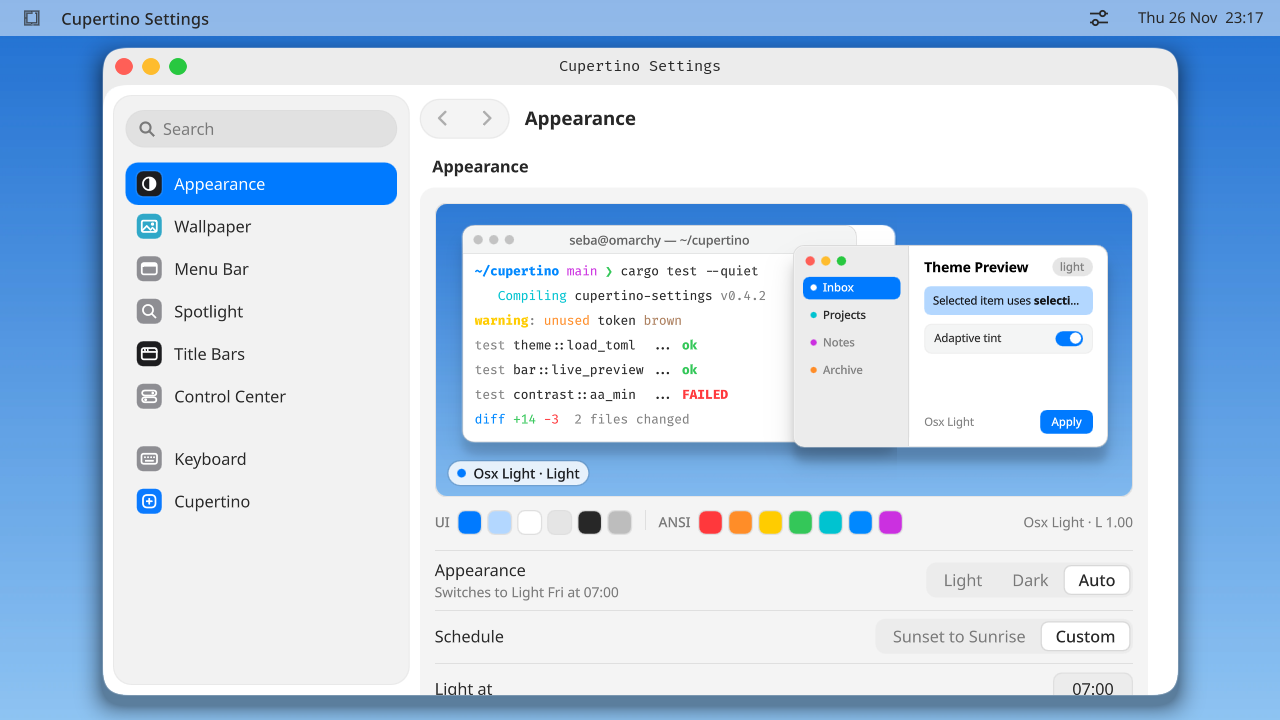
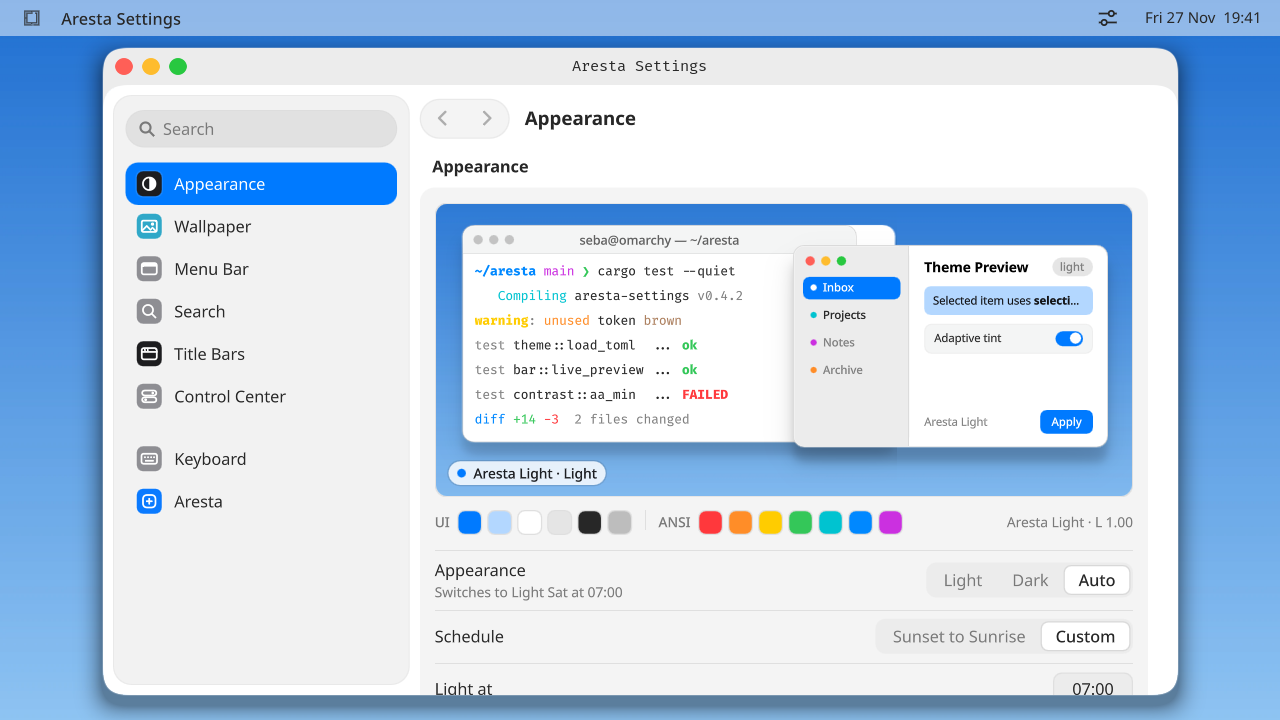
docs(readme): present the project as aresta
The README opens with the lockup and the tagline, names each part by its
new name and gives the new repository URL. It says once that Aresta is
inspired by macOS, and ends with the Urbanist credit and the trademark
notice.

The lockups get a tight viewBox, so the title has no empty margin. The
media is regenerated with the new names, and spotlight.gif becomes
search.gif.

diff --git a/README.md b/README.md
@@ -1,26 +1,34 @@
-# omarchy-cupertino
+<h1 align="center">
+  <picture>
+    <source media="(prefers-color-scheme: dark)" srcset="assets/brand/lockup-dark.svg">
+    <source media="(prefers-color-scheme: light)" srcset="assets/brand/lockup-light.svg">
+    <img alt="Aresta" src="assets/brand/lockup-light.svg" width="360">
+  </picture>
+</h1>
 
-A macOS look for [Omarchy](https://omarchy.org) 4.5 or newer.
+<p align="center">A crafted desktop, with rounded edges.</p>
+
+Aresta is a desktop look for [Omarchy](https://omarchy.org) 4.5 or newer,
+inspired by macOS.
 
 | Part | What you get |
 | --- | --- |
-| [Menu bar](#menu-bar) | A Mac-style top bar in place of the Omarchy bar |
+| [Menu bar](#menu-bar) | A slim top bar in place of the Omarchy bar |
 | [Control Center](#control-center) | Floating controls for Wi-Fi, Bluetooth, Focus, theme, Night Light, display, sound and media |
-| [Spotlight](#spotlight) | The Omarchy menu drawn as macOS Spotlight |
+| [Search](#search) | The Omarchy menu as one search field |
 | [Title bars](#title-bars-and-windows) | Traffic lights on floating workspaces, rounded corners everywhere |
-| [Themes](#themes) | Works with every Omarchy theme, plus OSX Light and OSX Dark |
-| [Shortcuts](#keyboard-shortcuts) | Super+Tab, Super+Q and other macOS keys on Super |
-| [Cupertino Settings](#cupertino-settings) | One app that turns each part on or off |
+| [Themes](#themes) | Works with every Omarchy theme, plus Aresta Light and Aresta Dark |
+| [Shortcuts](#keyboard-shortcuts) | Super+Tab, Super+Q and other app keys on Super |
+| [Aresta Settings](#aresta-settings) | One app that turns each part on or off |
 
 Each part has a switch. Turning one off gives back Omarchy's own behavior.
 See [Install](#install) to get started.
 
 ## Menu bar
 
-![Turning on the Cupertino menu bar in Cupertino Settings to replace the default Omarchy bar](docs/media/menu-bar.gif)
+![Turning on the Aresta menu bar in Aresta Settings to replace the default Omarchy bar](docs/media/menu-bar.gif)
 
-The menu bar replaces the Omarchy bar. It is sized and spaced like the macOS
-menu bar.
+The menu bar replaces the Omarchy bar.
 
 - **Left:** the Omarchy menu button and the focused app's name.
 - **Right:** your status widgets, third-party ones too, and the date and time.
@@ -33,8 +41,7 @@ menu bar.
 ![Opening the Control Center pills, then the Wi-Fi and the sound panels, in the top-right corner](docs/media/control-center.gif)
 
 The Control Center button sits next to the clock. It opens a group of
-floating pills in the top-right corner, in the style of macOS Tahoe. The
-pills:
+floating pills in the top-right corner. The pills:
 
 - turn Wi-Fi, Bluetooth and Focus on or off;
 - switch between the light and the dark theme, and turn the night light on
@@ -48,9 +55,9 @@ as the Wi-Fi or the sound panel, in the same corner.
 While it is on, the bar hides Omarchy's network, Bluetooth, sound, system
 monitor and battery icons, unless you keep one in the bar.
 
-## Spotlight
+## Search
 
-![Opening Spotlight, then searching for an app and doing math](docs/media/spotlight.gif)
+![Opening Aresta Search, then searching for an app and doing math](docs/media/search.gif)
 
 Super+Space, the bar's menu button and `omarchy-menu` open one search field
 with a blinking cursor. Results show apps first, then menu rows with their
@@ -88,17 +95,17 @@ title bars.
 
 ## Themes
 
-![OSX Light on the left and OSX Dark on the right](docs/media/themes.png)
+![Aresta Light on the left and Aresta Dark on the right](docs/media/themes.png)
 
 Every installed Omarchy theme is supported. The menu bar, Control Center,
-Spotlight, title bars, app switcher and Cupertino Settings follow your active
-theme's colors. In Cupertino Settings under Appearance, pick any installed
+Aresta Search, title bars, app switcher and Aresta Settings follow your active
+theme's colors. In Aresta Settings under Appearance, pick any installed
 Omarchy theme as your light theme or dark theme, and switch manually or on Auto
 (sunrise/sunset or a custom schedule).
 
-Two macOS-style themes are included: **OSX Light** and **OSX Dark**, each with
-Yaru blue icons and an original gradient background. Pick them in Cupertino
-Settings, the Omarchy theme menu or with `omarchy-theme-set "osx light"`.
+Two themes are included: **Aresta Light** and **Aresta Dark**, each with Yaru
+blue icons and an original gradient background. Pick them in Aresta Settings,
+the Omarchy theme menu or with `omarchy-theme-set "Aresta Light"`.
 
 ## Keyboard shortcuts
 
@@ -123,23 +130,23 @@ The switcher replaces Omarchy's next and previous workspace bindings on
 Super+Tab and Super+Shift+Tab. It is its own shell plugin, so it keeps
 working when you switch back to the Omarchy bar.
 
-## Cupertino Settings
+## Aresta Settings
 
-![The Appearance section of Cupertino Settings, with the theme preview and the Auto schedule](docs/media/settings.png)
+![The Appearance section of Aresta Settings, with the theme preview and the Auto schedule](docs/media/settings.png)
 
-Cupertino Settings is a small app in the style of macOS System Settings.
-Open it from the app launcher.
+Aresta Settings is a small app with one section for each part. Open it from
+the app launcher.
 
 | Section | What you set |
 | --- | --- |
-| Appearance | Light, Dark or Auto; the light and the dark theme from the installed Omarchy themes, in lists that follow the themes you add or remove while the window is open; window shadows; translucent panel backgrounds and opacity for Control Center, Spotlight and the app switcher; the Control Center and the status panels in the top-right corner. It also shows the colors of the current theme. Auto picks the light theme at sunrise and the dark theme at sunset, or at the two times you set under Schedule, Custom. |
+| Appearance | Light, Dark or Auto; the light and the dark theme from the installed Omarchy themes, in lists that follow the themes you add or remove while the window is open; window shadows; translucent panel backgrounds and opacity for Control Center, Aresta Search and the app switcher; the Control Center and the status panels in the top-right corner. It also shows the colors of the current theme. Auto picks the light theme at sunrise and the dark theme at sunset, or at the two times you set under Schedule, Custom. |
 | Wallpaper | The current wallpaper and a switch that keeps it when the theme changes. It lists the pictures of the theme, of `~/.config/omarchy/backgrounds/<theme>` and of folders you add. Add Photo copies a picture into `~/.config/omarchy/backgrounds/<theme>`. |
 | Menu Bar | The menu bar itself; desktops in the bar (after the menus, in the center or before the status icons, as numbers or dots); the bar background opacity; the clock format. |
-| Spotlight | Spotlight itself (off gives back the Omarchy menu); size from 80% to 150%; a gray or theme accent selected row; the filter buttons; open with only the search field until you type; keyboard hints at the bottom of the card; lock the card's place and size; put it back at its default place and height. |
+| Search | Aresta Search itself (off gives back the Omarchy menu); size from 80% to 150%; a gray or theme accent selected row; the filter buttons; open with only the search field until you type; keyboard hints at the bottom of the card; lock the card's place and size; put it back at its default place and height. |
 | Title Bars | The title bars themselves, with a preview of two windows on your wallpaper; title bars on tiled windows too; button position (left or right); grey traffic lights on unfocused windows; icons in the traffic lights on hover; title alignment; traffic light size. Off gives back Omarchy's own title bars. |
 | Control Center | The Control Center itself (off gives back Omarchy's bar icons); the controls the panel shows; the Omarchy icons that also stay in the menu bar. |
 | Keyboard | Quit app, Cycle windows, the app switcher and the Quake console keys on or off, and new shortcuts for them. Omarchy's own bindings show as read-only. |
-| Cupertino | Options that macOS does not have: rounded corners and their radius and shape, the thin border, the shadow and the bar size. |
+| Aresta | Rounded corners and their radius and shape, the thin border, the shadow and the bar size. |
 
 Turning a part off gives back Omarchy's own behavior: the Omarchy bar, its
 status icons, title bars, square corners, colored border, menu, or its
@@ -147,8 +154,7 @@ Super+Q, `` Super+` ``, `` Super+Shift+` ``, Super+Tab and Super+Shift+Tab
 bindings.
 
 Changes apply at once. The app saves them to
-`~/.config/omarchy-cupertino/settings.toml`, which the Hyprland config and the
-bar read. Without that file, every option keeps its default.
+`~/.config/aresta/settings.toml`, which the Hyprland config and the bar read. Without that file, every option keeps its default.
 
 The app is written in Rust with [cxx-qt](https://github.com/KDAB/cxx-qt) and
 QML. To build it by hand you need Rust (`cargo`) and Qt 6:
@@ -160,28 +166,31 @@ cargo build --release --manifest-path app/Cargo.toml
 ## Install
 
 ```sh
+git clone https://github.com/momoi-labs/omarchy-aresta
+cd omarchy-aresta
 ./install.sh
 ```
 
-It links `hypr/omarchy-cupertino.lua` into `~/.config/hypr`, adds
-`require("hypr.omarchy-cupertino")` to `~/.config/hypr/hyprland.lua` before
+It links `hypr/aresta.lua` into `~/.config/hypr`, adds
+`require("hypr.aresta")` to `~/.config/hypr/hyprland.lua` before
 `require("default.hypr.toggles")`, and reloads Hyprland. Before it edits
-`hyprland.lua`, it copies the file to `$CUPERTINO_BACKUP_DIR/hyprland.lua.orig`
-(default `/tmp/omarchy-cupertino`). It also links the repository into
-`~/.config/omarchy/plugins` and selects the Cupertino bar, after it copies
-`~/.config/omarchy/shell.json` to `$CUPERTINO_BACKUP_DIR/shell.json.orig`.
+`hyprland.lua`, it copies the file to `$ARESTA_BACKUP_DIR/hyprland.lua.orig`
+(default `/tmp/aresta`). It also links the repository into
+`~/.config/omarchy/plugins` and selects the Aresta bar, after it copies
+`~/.config/omarchy/shell.json` to `$ARESTA_BACKUP_DIR/shell.json.orig`.
 It links `switcher/` into `~/.config/omarchy/plugins` and enables it. It
 links `menu/` into `~/.config/omarchy/plugins` and enables it, which turns off
 the Omarchy menu. It links `control-center/` into
 `~/.config/omarchy/plugins` and enables it.
-It links `themes/osx-light` and `themes/osx-dark` into
+It links `themes/aresta-light` and `themes/aresta-dark` into
 `~/.config/omarchy/themes`, and links a `theme-set` hook into
 `~/.config/omarchy/hooks/theme-set.d` that keeps the current wallpaper on a
-theme switch unless you turn that off. Finally, it builds Cupertino Settings
-with `cargo` and installs it to `~/.local/bin/cupertino-settings`, with a
-launcher entry in `~/.local/share/applications`.
-It also installs the `cupertino-auto` systemd user timer, which runs
-`cupertino-settings --auto` every minute for Auto appearance. Auto reads your
+theme switch unless you turn that off. Finally, it builds Aresta Settings
+with `cargo` and installs it to `~/.local/bin/aresta-settings`, with a
+launcher entry in `~/.local/share/applications` and its icon in
+`~/.local/share/icons/hicolor/scalable/apps`.
+It also installs the `aresta-auto` systemd user timer, which runs
+`aresta-settings --auto` every minute for Auto appearance. Auto reads your
 location from `~/.local/state/omarchy/settings/weather.json`, else from
 `https://geo.omarchy.org/`, and computes sunrise and sunset on your computer.
 With a Custom schedule, Auto uses your local time and needs no location.
@@ -194,10 +203,10 @@ Running the script again changes nothing.
 ```
 
 It restores `shell.json` from the backup (or selects the default bar when
-the file changed since), disables the Spotlight menu so the Omarchy menu
+the file changed since), disables Aresta Search so the Omarchy menu
 comes back, disables the Control Center, removes the plugin links, the theme links, the hook
-link, the `require` line, the Hyprland link, the Cupertino Settings binary
-and launcher entry and the `cupertino-auto` timer, then reloads Hyprland. It
+link, the `require` line, the Hyprland link, the Aresta Settings binary,
+launcher entry and icon and the `aresta-auto` timer, then reloads Hyprland. It
 keeps your settings file.
 
 ## Credits
@@ -206,3 +215,8 @@ The title bar code is based on the
 [macOS Dock plugin](https://github.com/rafabertholdo/omarchy-macos) by Rafael Bertholdo
 (MIT). The app switcher is based on Renan Tonheiro's Switch Magic plugin
 (MIT). See `LICENSE`.
+
+The wordmark uses [Urbanist](https://fonts.google.com/specimen/Urbanist) (SIL
+Open Font License 1.1).
+
+macOS is a trademark of Apple Inc. Aresta is not affiliated with Apple.
